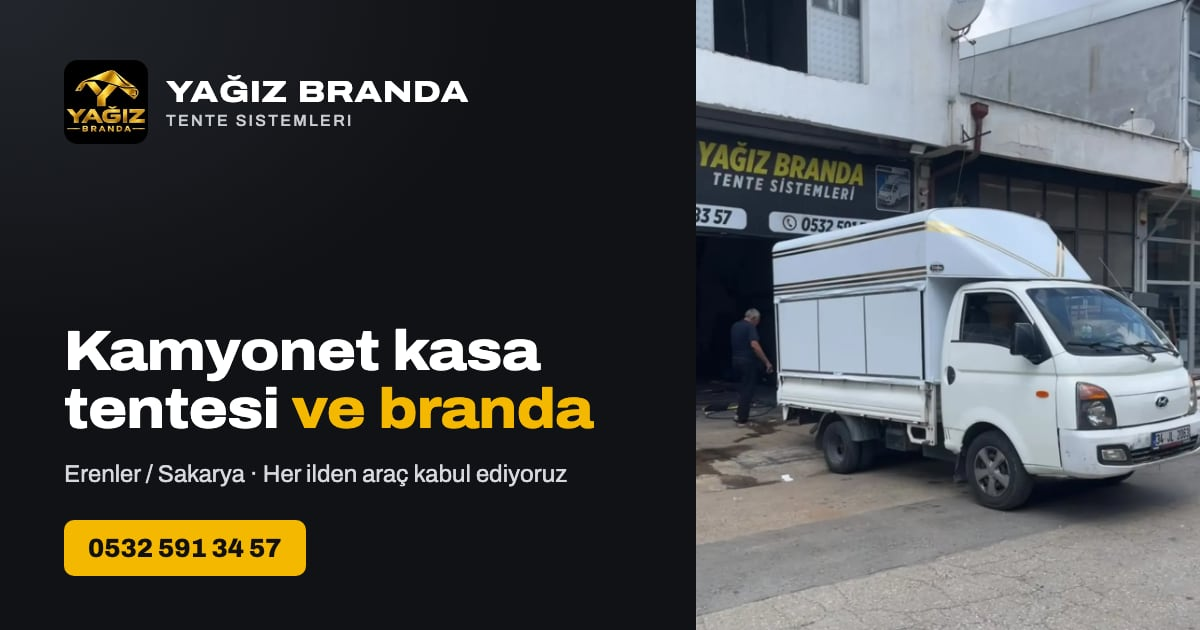
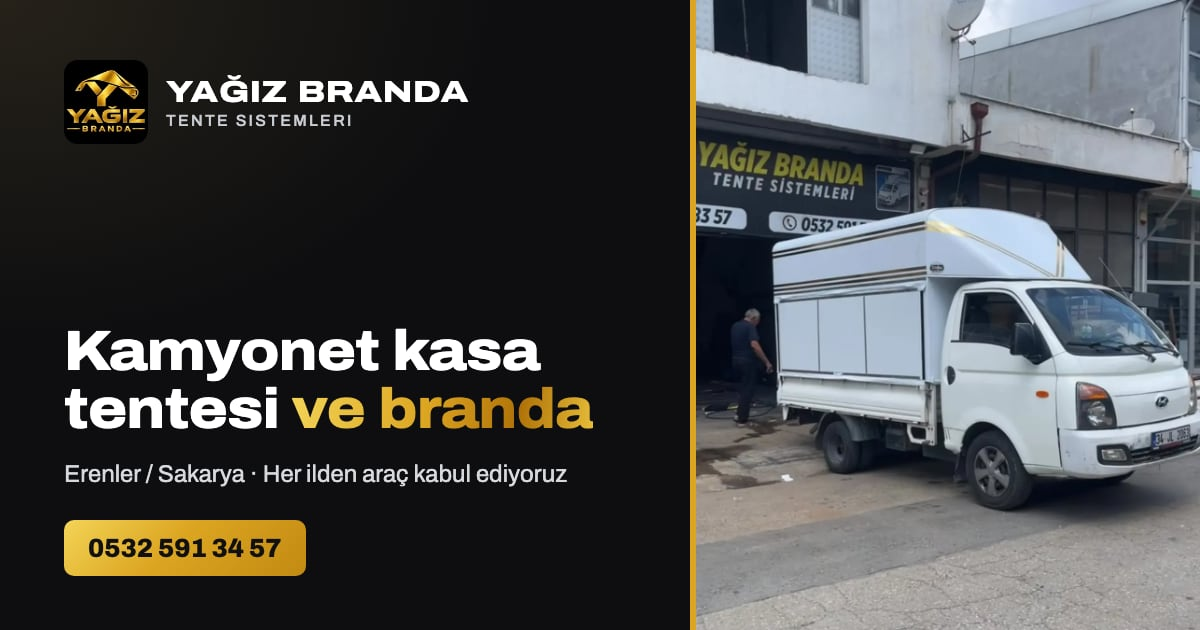
Ana sayfa: logodaki altın renkler, ekip bölümü, güven şeridi; Google kaydı ve IndexNow

Changed region(s): [[0.555, 0.0, 0.5858, 1.0], [0.0308, 0.8143, 0.2775, 0.9349], [0.2467, 0.6032, 0.4933, 0.6937]]

diff --git a/public/site.css b/public/site.css
@@ -1,21 +1,23 @@
-/* Yağız Branda — kurumsal ve sade: koyu antrasit + tabeladaki sarı, bol boşluk, az metin.
+/* Yağız Branda — kurumsal ve sade: logodaki siyah + metalik altın, beyaz; bol boşluk, az metin.
+   Altın tonları logodan ölçüldü (14 Kasım): koyu kehribar #b07208 → #dca521 → parlak #f3d457.
    Yazı tipi: Archivo (OFL), yalnızca sitede kullanılan harfler (Türkçe dahil) ve kalınlıklar (public/yazi/). */
 @font-face { font-family: "Archivo"; font-style: normal; font-display: swap; font-weight: 400 800; font-stretch: 100% 125%; src: url(yazi/archivo-latin.woff2) format("woff2"); unicode-range: U+0020-007E, U+00A0-00FF, U+0131, U+2013-2014, U+2018-2019, U+201C-201D, U+2022, U+2026, U+2192, U+20AC; }
 @font-face { font-family: "Archivo"; font-style: normal; font-display: swap; font-weight: 400 800; font-stretch: 100% 125%; src: url(yazi/archivo-tr.woff2) format("woff2"); unicode-range: U+011E-011F, U+0130, U+015E-015F, U+20BA; }
 
 :root {
-  --koyu: #101215;
-  --koyu-2: #1a1d22;
+  --koyu: #0e0e10;
+  --koyu-2: #18181b;
   --koyu-cizgi: rgba(255, 255, 255, .12);
-  --sari: #f5b800;
-  --sari-acik: #ffc928;
-  --sari-yazi: #8a6500;
+  --altin: #dca521;
+  --altin-acik: #f3d457;
+  --altin-yazi: #8a5a00;
+  --altin-grad: linear-gradient(135deg, #f3d457 0%, #dca521 42%, #b9800f 74%, #e8bf3a 100%);
   --zemin: #ffffff;
-  --gri: #f4f3ef;
-  --metin: #15171b;
-  --soluk: #5a606a;
-  --acik-soluk: #b9bdc5;
-  --cizgi: #e3e1db;
+  --gri: #f6f4ef;
+  --metin: #141416;
+  --soluk: #5c5c63;
+  --acik-soluk: #bdbcc4;
+  --cizgi: #e6e2d8;
   --wp: #25d366;
   --wp-yazi: #05290f;
   --yaricap: 16px;
@@ -30,9 +32,9 @@ h2 { font-size: clamp(1.7rem, 3vw, 2.35rem); }
 h3 { font-size: 1.1rem; font-stretch: 104%; letter-spacing: -.005em; line-height: 1.25; }
 p { margin: 0; }
 svg { width: 1.15em; height: 1.15em; flex: none; fill: none; stroke: currentColor; stroke-width: 2; stroke-linecap: round; stroke-linejoin: round; }
-:focus-visible { outline: 3px solid var(--sari); outline-offset: 3px; border-radius: 6px; }
+:focus-visible { outline: 3px solid var(--altin); outline-offset: 3px; border-radius: 6px; }
 .gizli { position: absolute; width: 1px; height: 1px; overflow: hidden; clip: rect(0 0 0 0); white-space: nowrap; }
-.atla { position: absolute; left: 12px; top: -60px; z-index: 100; background: var(--sari); color: #111; padding: 10px 16px; border-radius: 8px; font-weight: 700; text-decoration: none; }
+.atla { position: absolute; left: 12px; top: -60px; z-index: 100; background: var(--altin); color: #111; padding: 10px 16px; border-radius: 8px; font-weight: 700; text-decoration: none; }
 .atla:focus { top: 12px; }
 .kap { width: min(1180px, 100% - 40px); margin-inline: auto; }
 .kap-dar { width: min(820px, 100% - 40px); }
@@ -43,8 +45,8 @@ svg { width: 1.15em; height: 1.15em; flex: none; fill: none; stroke: currentColo
 .dugme { display: inline-flex; align-items: center; justify-content: center; gap: 9px; padding: 12px 18px; border-radius: 10px; border: 1.5px solid transparent;
   font-weight: 700; font-size: .97rem; line-height: 1.2; text-decoration: none; white-space: nowrap; transition: background-color .15s, border-color .15s, color .15s; }
 .dugme-buyuk { padding: 15px 22px; font-size: 1.02rem; }
-.dugme-sari { background: var(--sari); color: #111; }
-.dugme-sari:hover { background: var(--sari-acik); }
+.dugme-sari { background: var(--altin-grad); color: #111; box-shadow: inset 0 1px 0 rgba(255, 255, 255, .35); }
+.dugme-sari:hover { filter: brightness(1.07); }
 .dugme-wp { background: var(--wp); color: var(--wp-yazi); }
 .dugme-wp:hover { background: #3ee07a; }
 .dugme-cizgi { border-color: var(--metin); color: var(--metin); }
@@ -53,8 +55,8 @@ svg { width: 1.15em; height: 1.15em; flex: none; fill: none; stroke: currentColo
 .koyu .dugme-cizgi:hover { background: #fff; color: var(--koyu); border-color: #fff; }
 
 /* Üst bar */
-.ust { position: sticky; top: 0; z-index: 50; background: rgba(16, 18, 21, .97); color: #fff; border-bottom: 1px solid var(--koyu-cizgi); }
-@supports (backdrop-filter: blur(8px)) { .ust { background: rgba(16, 18, 21, .86); backdrop-filter: blur(12px) saturate(1.4); } }
+.ust { position: sticky; top: 0; z-index: 50; background: rgba(14, 14, 16, .97); color: #fff; border-bottom: 1px solid var(--koyu-cizgi); }
+@supports (backdrop-filter: blur(8px)) { .ust { background: rgba(14, 14, 16, .86); backdrop-filter: blur(12px) saturate(1.4); } }
 .ust-ic { display: flex; align-items: center; gap: 20px; min-height: 70px; }
 .marka { display: inline-flex; align-items: center; gap: 12px; text-decoration: none; margin-right: auto; }
 .marka img { width: 44px; height: 44px; border-radius: 10px; }
@@ -62,7 +64,7 @@ svg { width: 1.15em; height: 1.15em; flex: none; fill: none; stroke: currentColo
 .marka small { display: block; font-size: .68rem; font-weight: 600; letter-spacing: .18em; text-transform: uppercase; color: var(--acik-soluk); margin-top: 3px; }
 .menu { display: flex; align-items: center; gap: 2px; }
 .menu a:not(.dugme) { padding: 10px 12px; border-radius: 8px; color: #e5e7ea; text-decoration: none; font-weight: 600; font-size: .94rem; }
-.menu a:not(.dugme):hover, .menu a[aria-current="page"] { color: var(--sari); }
+.menu a:not(.dugme):hover, .menu a[aria-current="page"] { color: var(--altin); }
 .menu-tel { margin-left: 10px; }
 .menu-ac { display: none; width: 46px; height: 46px; border: 1px solid var(--koyu-cizgi); border-radius: 10px; background: transparent; color: #fff; cursor: pointer; place-content: center; gap: 6px; }
 .menu-ac i { display: block; width: 20px; height: 2px; background: currentColor; border-radius: 2px; transition: transform .2s; }
@@ -71,27 +73,27 @@ svg { width: 1.15em; height: 1.15em; flex: none; fill: none; stroke: currentColo
 
 /* Başlık etiketleri */
 .ust-baslik { display: inline-flex; align-items: center; gap: 10px; font-size: .76rem; font-weight: 700; letter-spacing: .18em; text-transform: uppercase; color: var(--soluk); margin-bottom: 14px; }
-.ust-baslik::before { content: ""; width: 22px; height: 3px; border-radius: 2px; background: var(--sari); }
-.koyu .ust-baslik { color: var(--sari); }
+.ust-baslik::before { content: ""; width: 22px; height: 3px; border-radius: 2px; background: var(--altin); }
+.koyu .ust-baslik { color: var(--altin); }
 
 /* Giriş */
-.giris { padding: clamp(48px, 7vw, 96px) 0; background: radial-gradient(60% 70% at 90% 10%, rgba(245, 184, 0, .12), transparent 62%), linear-gradient(180deg, #14171b 0%, var(--koyu) 100%); }
+.giris { padding: clamp(48px, 7vw, 96px) 0; background: radial-gradient(60% 70% at 90% 10%, rgba(220, 165, 33, .12), transparent 62%), linear-gradient(180deg, #14171b 0%, var(--koyu) 100%); }
 .giris-ic { display: grid; grid-template-columns: 1.15fr .85fr; gap: clamp(32px, 6vw, 88px); align-items: center; }
 .giris h1 { font-size: clamp(2.4rem, 5.4vw, 4.1rem); line-height: 1.02; }
 .giris-p { margin: 22px 0 32px; max-width: 30em; color: var(--acik-soluk); font-size: 1.12rem; }
 .olgular { list-style: none; margin: 34px 0 0; padding: 0; display: flex; flex-wrap: wrap; gap: 10px 26px; color: #dfe1e5; font-size: .93rem; font-weight: 600; }
 .olgular li { display: inline-flex; align-items: center; gap: 8px; }
-.olgular svg { color: var(--sari); stroke-width: 2.6; }
+.olgular svg { color: var(--altin); stroke-width: 2.6; }
 .giris-foto { position: relative; margin: 0; justify-self: end; width: min(420px, 100%); }
 .giris-foto img { width: 100%; aspect-ratio: 4 / 5; object-fit: cover; border-radius: 20px; box-shadow: 0 30px 60px rgba(0, 0, 0, .45); }
-.giris-foto figcaption { position: absolute; left: 14px; bottom: 14px; display: inline-flex; align-items: center; gap: 7px; background: rgba(16, 18, 21, .82); color: #fff; font-size: .82rem; font-weight: 600; padding: 8px 13px; border-radius: 999px; }
-.giris-foto figcaption svg { color: var(--sari); width: 1em; height: 1em; }
+.giris-foto figcaption { position: absolute; left: 14px; bottom: 14px; display: inline-flex; align-items: center; gap: 7px; background: rgba(14, 14, 16, .82); color: #fff; font-size: .82rem; font-weight: 600; padding: 8px 13px; border-radius: 999px; }
+.giris-foto figcaption svg { color: var(--altin); width: 1em; height: 1em; }
 .giris-kisa { padding: clamp(40px, 5vw, 72px) 0; }
 .giris-kisa h1 { font-size: clamp(2.2rem, 4.6vw, 3.5rem); }
 .giris-kisa .giris-foto { width: min(380px, 100%); }
 .kirinti { display: flex; flex-wrap: wrap; gap: 8px; font-size: .86rem; color: var(--acik-soluk); margin-bottom: 18px; }
 .kirinti a { color: var(--acik-soluk); text-decoration: none; }
-.kirinti a:hover { color: var(--sari); }
+.kirinti a:hover { color: var(--altin); }
 .kirinti [aria-current] { color: #fff; }
 .bulunamadi { min-height: 56vh; display: grid; align-items: center; }
 
@@ -100,8 +102,8 @@ svg { width: 1.15em; height: 1.15em; flex: none; fill: none; stroke: currentColo
 .bolum-gri { background: var(--gri); }
 .bolum-bas { margin-bottom: clamp(28px, 4vw, 44px); }
 .bolum-bas-yan { display: flex; align-items: end; justify-content: space-between; gap: 16px 24px; flex-wrap: wrap; }
-.yazi-bag { display: inline-flex; align-items: center; gap: 8px; font-weight: 700; font-size: .95rem; text-decoration: none; color: var(--metin); border-bottom: 2px solid var(--sari); padding-bottom: 3px; }
-.yazi-bag:hover { color: var(--sari-yazi); }
+.yazi-bag { display: inline-flex; align-items: center; gap: 8px; font-weight: 700; font-size: .95rem; text-decoration: none; color: var(--metin); border-bottom: 2px solid var(--altin); padding-bottom: 3px; }
+.yazi-bag:hover { color: var(--altin-yazi); }
 
 /* Hizmet karoları: fotoğraf üstünde başlık */
 .karolar { display: grid; grid-template-columns: repeat(4, 1fr); gap: 18px; }
@@ -109,37 +111,37 @@ svg { width: 1.15em; height: 1.15em; flex: none; fill: none; stroke: currentColo
 .karo { position: relative; display: block; border-radius: var(--yaricap); overflow: hidden; color: #fff; text-decoration: none; background: var(--koyu); isolation: isolate; }
 .karo img { width: 100%; aspect-ratio: 4 / 5; object-fit: cover; transition: transform .5s; }
 .karolar-3 .karo img { aspect-ratio: 4 / 3; }
-.karo::after { content: ""; position: absolute; inset: 0; background: linear-gradient(180deg, rgba(16, 18, 21, 0) 40%, rgba(16, 18, 21, .88) 100%); z-index: 0; }
+.karo::after { content: ""; position: absolute; inset: 0; background: linear-gradient(180deg, rgba(14, 14, 16, 0) 40%, rgba(14, 14, 16, .88) 100%); z-index: 0; }
 .karo-yazi { position: absolute; left: 0; right: 0; bottom: 0; z-index: 1; padding: 20px 22px; }
 .karo-yazi p { margin-top: 6px; font-size: .9rem; color: #d7dadf; }
-.karo > svg { position: absolute; z-index: 1; top: 16px; right: 16px; width: 40px; height: 40px; padding: 10px; border-radius: 50%; background: var(--sari); color: #111; stroke-width: 2.4; transition: transform .25s; }
+.karo > svg { position: absolute; z-index: 1; top: 16px; right: 16px; width: 40px; height: 40px; padding: 10px; border-radius: 50%; background: var(--altin); color: #111; stroke-width: 2.4; transition: transform .25s; }
 .karo:hover img { transform: scale(1.04); }
 .karo:hover > svg { transform: rotate(-45deg); }
 
 /* Türkiye */
-.turkiye { padding: clamp(64px, 8vw, 104px) 0; background: radial-gradient(50% 80% at 100% 50%, rgba(245, 184, 0, .08), transparent 70%), var(--koyu); }
+.turkiye { padding: clamp(64px, 8vw, 104px) 0; background: radial-gradient(50% 80% at 100% 50%, rgba(220, 165, 33, .08), transparent 70%), var(--koyu); }
 .turkiye-ic { display: grid; grid-template-columns: .8fr 1.2fr; gap: clamp(32px, 5vw, 72px); align-items: center; }
 .turkiye-yazi > p:not(.ust-baslik) { margin-top: 16px; color: var(--acik-soluk); font-size: 1.06rem; max-width: 28em; }
 .adimlar { list-style: none; margin: 30px 0 0; padding: 0; display: grid; gap: 12px; counter-reset: adim; }
 .adimlar li { counter-increment: adim; display: flex; align-items: center; gap: 14px; font-weight: 700; }
-.adimlar li::before { content: counter(adim); display: grid; place-items: center; width: 34px; height: 34px; flex: none; border-radius: 50%; border: 1.5px solid var(--sari); color: var(--sari); font-size: .9rem; font-stretch: 112%; }
+.adimlar li::before { content: counter(adim); display: grid; place-items: center; width: 34px; height: 34px; flex: none; border-radius: 50%; border: 1.5px solid var(--altin); color: var(--altin); font-size: .9rem; font-stretch: 112%; }
 .harita { margin: 0; }
 .harita svg { width: 100%; height: auto; overflow: visible; }
 .harita .ulke { fill: #1d2127; stroke: #363b45; stroke-width: 1.4; }
-.harita .yay { fill: none; stroke: var(--sari); stroke-width: 2.2; stroke-linecap: round; opacity: .7; }
+.harita .yay { fill: none; stroke: var(--altin); stroke-width: 2.2; stroke-linecap: round; opacity: .7; }
 .harita .il { fill: #fff; stroke: var(--koyu); stroke-width: 2.5; }
-.harita .atolye { fill: var(--sari); stroke: var(--koyu); stroke-width: 3; }
-.harita .atolye-hale { fill: rgba(245, 184, 0, .22); transform-origin: center; transform-box: fill-box; animation: hale 2.4s ease-out infinite; }
+.harita .atolye { fill: var(--altin); stroke: var(--koyu); stroke-width: 3; }
+.harita .atolye-hale { fill: rgba(220, 165, 33, .22); transform-origin: center; transform-box: fill-box; animation: hale 2.4s ease-out infinite; }
 @keyframes hale { from { transform: scale(.5); opacity: 1; } to { transform: scale(1.6); opacity: 0; } }
 .iller { list-style: none; margin: 22px 0 0; padding: 0; display: flex; flex-wrap: wrap; gap: 8px; }
 .iller li { padding: 7px 14px; border: 1px solid rgba(255, 255, 255, .18); border-radius: 999px; font-weight: 600; font-size: .9rem; color: #e6e8eb; }
-.iller li.merkez { background: var(--sari); border-color: var(--sari); color: #111; }
+.iller li.merkez { background: var(--altin-grad); border-color: var(--altin); color: #111; }
 
 /* Galeri */
 .galeri { display: grid; grid-template-columns: repeat(4, 1fr); gap: 14px; }
 .galeri figure { position: relative; margin: 0; border-radius: 14px; overflow: hidden; background: #ddd; }
 .galeri img { width: 100%; aspect-ratio: 4 / 5; object-fit: cover; }
-.galeri figcaption { position: absolute; left: 10px; bottom: 10px; padding: 5px 11px; border-radius: 999px; background: rgba(16, 18, 21, .78); color: #fff; font-size: .8rem; font-weight: 600; }
+.galeri figcaption { position: absolute; left: 10px; bottom: 10px; padding: 5px 11px; border-radius: 999px; background: rgba(14, 14, 16, .78); color: #fff; font-size: .8rem; font-weight: 600; }
 
 /* Sık sorulanlar */
 .sss details { border-bottom: 1px solid var(--cizgi); }
@@ -148,7 +150,7 @@ svg { width: 1.15em; height: 1.15em; flex: none; fill: none; stroke: currentColo
 .sss summary::-webkit-details-marker { display: none; }
 .sss summary::after { content: "+"; flex: none; display: grid; place-items: center; width: 30px; height: 30px; border-radius: 50%; background: var(--gri); font-size: 1.3rem; font-weight: 500; line-height: 1; }
 .bolum-gri .sss summary::after { background: #fff; }
-.sss details[open] summary::after { content: "−"; background: var(--sari); }
+.sss details[open] summary::after { content: "−"; background: var(--altin); }
 .sss p { padding: 0 44px 22px 2px; color: var(--soluk); }
 
 /* İletişim */
@@ -159,8 +161,8 @@ svg { width: 1.15em; height: 1.15em; flex: none; fill: none; stroke: currentColo
 .bilgi li > svg { width: 42px; height: 42px; padding: 10px; border-radius: 12px; background: #fff; border: 1px solid var(--cizgi); }
 .bilgi b { display: block; font-size: .76rem; letter-spacing: .1em; text-transform: uppercase; color: var(--soluk); margin-bottom: 2px; }
 .bilgi a { font-weight: 700; text-decoration: none; }
-.bilgi a:hover { color: var(--sari-yazi); }
-.iletisim-kart { padding: clamp(28px, 4vw, 44px); border-radius: 22px; background: radial-gradient(90% 90% at 100% 0%, rgba(245, 184, 0, .16), transparent 60%), var(--koyu); }
+.bilgi a:hover { color: var(--altin-yazi); }
+.iletisim-kart { padding: clamp(28px, 4vw, 44px); border-radius: 22px; background: radial-gradient(90% 90% at 100% 0%, rgba(220, 165, 33, .16), transparent 60%), var(--koyu); }
 .iletisim-kart h3 { font-size: 1.45rem; }
 .iletisim-kart > p:not(.ust-baslik) { margin: 10px 0 26px; color: var(--acik-soluk); }
 
@@ -168,7 +170,7 @@ svg { width: 1.15em; height: 1.15em; flex: none; fill: none; stroke: currentColo
 .maddeler { list-style: none; margin: 0; padding: 0; display: grid; grid-template-columns: repeat(3, 1fr); gap: 28px; }
 .maddeler-4 { grid-template-columns: repeat(4, 1fr); }
 .maddeler li { padding-top: 20px; border-top: 2px solid var(--metin); }
-.maddeler li > svg { width: 34px; height: 34px; padding: 7px; border-radius: 50%; background: var(--sari); color: #111; stroke-width: 2.6; margin-bottom: 16px; }
+.maddeler li > svg { width: 34px; height: 34px; padding: 7px; border-radius: 50%; background: var(--altin); color: #111; stroke-width: 2.6; margin-bottom: 16px; }
 .maddeler p { margin-top: 6px; color: var(--soluk); }
 .araclar { margin-top: 48px; }
 .araclar h3 { font-size: .8rem; letter-spacing: .14em; text-transform: uppercase; color: var(--soluk); font-stretch: 100%; }
@@ -177,7 +179,7 @@ svg { width: 1.15em; height: 1.15em; flex: none; fill: none; stroke: currentColo
 .araclar li:last-child { background: none; border: 1px dashed #c9c6be; color: var(--soluk); font-weight: 500; }
 
 /* Çağrı bandı */
-.cagri { padding: clamp(48px, 6vw, 72px) 0; background: radial-gradient(70% 120% at 100% 0%, rgba(245, 184, 0, .15), transparent 60%), var(--koyu); }
+.cagri { padding: clamp(48px, 6vw, 72px) 0; background: radial-gradient(70% 120% at 100% 0%, rgba(220, 165, 33, .15), transparent 60%), var(--koyu); }
 .cagri-ic { display: flex; align-items: center; justify-content: space-between; gap: 28px; flex-wrap: wrap; }
 .cagri h2 { font-size: clamp(1.5rem, 2.6vw, 2rem); }
 .cagri p { margin-top: 10px; color: var(--acik-soluk); }
@@ -189,16 +191,72 @@ svg { width: 1.15em; height: 1.15em; flex: none; fill: none; stroke: currentColo
 .alt-liste { display: flex; flex-direction: column; gap: 10px; }
 .alt-liste h2 { font-size: .76rem; font-stretch: 100%; letter-spacing: .18em; text-transform: uppercase; color: #8b9099; margin-bottom: 6px; }
 .alt-liste a, .alt-liste p { display: flex; gap: 9px; align-items: flex-start; color: #d3d6db; text-decoration: none; line-height: 1.45; }
-.alt-liste a:hover { color: var(--sari); }
-.alt-liste svg { color: var(--sari); margin-top: 2px; }
+.alt-liste a:hover { color: var(--altin); }
+.alt-liste svg { color: var(--altin); margin-top: 2px; }
 .alt-alt { display: flex; justify-content: space-between; gap: 16px; flex-wrap: wrap; padding: 22px 0 26px; border-top: 1px solid rgba(255, 255, 255, .08); color: #8b9099; font-size: .86rem; }
 .alt-alt a { color: #b7bbc2; text-decoration: none; }
-.alt-alt a:hover { color: var(--sari); }
+.alt-alt a:hover { color: var(--altin); }
+
+/* Altın yazı (logodaki metalik geçiş) */
+.altin-yazi { background: var(--altin-grad); -webkit-background-clip: text; background-clip: text; color: transparent; }
+
+/* Üst şerit (yalnızca geniş ekranda) */
+.serit { background: #000; color: #c9c8cf; font-size: .82rem; border-bottom: 1px solid rgba(220, 165, 33, .25); }
+.serit-ic { display: flex; gap: 28px; align-items: center; min-height: 38px; }
+.serit-ic a, .serit-ic span { display: inline-flex; align-items: center; gap: 7px; text-decoration: none; }
+.serit-ic a:hover { color: var(--altin-acik); }
+.serit-ic svg { color: var(--altin); width: 1em; height: 1em; }
+.serit-ic a:last-child { margin-left: auto; }
+
+/* Ana sayfa girişi: tentelerdeki kafes deseninden altın ızgara */
+.giris { position: relative; overflow: hidden; isolation: isolate; }
+.giris-ana { padding: clamp(48px, 7vw, 104px) 0 clamp(88px, 10vw, 140px);
+  background: radial-gradient(55% 70% at 88% 18%, rgba(220, 165, 33, .16), transparent 62%), linear-gradient(180deg, #141312 0%, var(--koyu) 100%); }
+.giris::before { content: ""; position: absolute; inset: 0; z-index: -1; pointer-events: none;
+  background-image: linear-gradient(rgba(220, 165, 33, .13) 1.5px, transparent 1.5px), linear-gradient(90deg, rgba(220, 165, 33, .13) 1.5px, transparent 1.5px);
+  background-size: 46px 46px; -webkit-mask-image: radial-gradient(60% 75% at 82% 35%, #000 0%, transparent 72%); mask-image: radial-gradient(60% 75% at 82% 35%, #000 0%, transparent 72%); }
+.giris-ana h1 { font-size: clamp(2.5rem, 5.8vw, 4.5rem); }
+.giris-gorsel { position: relative; justify-self: end; width: min(430px, 100%); }
+.giris-ana .giris-foto { width: 100%; }
+.giris-ana .giris-foto::before { content: ""; position: absolute; inset: 22px -22px -22px 22px; border: 2px solid var(--altin); border-radius: 24px; z-index: -1; opacity: .75; }
+.giris-kart { position: absolute; left: -28px; bottom: 34px; display: flex; align-items: center; gap: 12px; padding: 12px 18px 12px 12px; border-radius: 16px;
+  background: rgba(14, 14, 16, .9); border: 1px solid rgba(220, 165, 33, .35); box-shadow: 0 18px 40px rgba(0, 0, 0, .45); }
+.giris-kart img { width: 48px; height: 48px; border-radius: 10px; }
+.giris-kart b { display: block; font-size: 1rem; }
+.giris-kart small { display: block; color: var(--acik-soluk); font-size: .84rem; }
+
+/* Güven şeridi: girişin altına biner */
+.guven { position: relative; z-index: 2; margin-top: calc(-1 * clamp(44px, 5vw, 64px)); }
+.guven-ic { list-style: none; margin-block: 0; padding: 0; display: grid; grid-template-columns: repeat(4, 1fr); background: #fff; border-radius: 20px;
+  box-shadow: 0 24px 60px rgba(14, 14, 16, .14), 0 2px 0 var(--altin) inset; overflow: hidden; }
+.guven li { display: flex; align-items: center; gap: 14px; padding: 24px 24px; }
+.guven li + li { border-left: 1px solid var(--cizgi); }
+.guven li > svg { width: 46px; height: 46px; padding: 11px; border-radius: 50%; background: var(--koyu); color: var(--altin); stroke-width: 1.8; }
+.guven b { display: block; font-size: 1rem; line-height: 1.25; }
+.guven span { color: var(--soluk); font-size: .9rem; line-height: 1.35; }
+
+/* Ekibimiz */
+.ekip-ic { display: grid; grid-template-columns: 1.05fr .95fr; gap: clamp(32px, 6vw, 80px); align-items: center; }
+.ekip-foto { position: relative; margin: 0; }
+.ekip-foto img { width: 100%; aspect-ratio: 4 / 3; object-fit: cover; border-radius: 20px; }
+.ekip-foto::after { content: ""; position: absolute; left: -14px; top: -14px; width: 38%; height: 46%; border-left: 3px solid var(--altin); border-top: 3px solid var(--altin); border-radius: 22px 0 0 0; pointer-events: none; }
+.ekip-foto figcaption { position: absolute; left: 14px; bottom: 14px; padding: 7px 13px; border-radius: 999px; background: rgba(14, 14, 16, .82); color: #fff; font-size: .82rem; font-weight: 600; }
+.ekip-yazi > p:not(.ust-baslik) { margin-top: 18px; color: var(--soluk); font-size: 1.06rem; max-width: 32em; }
+.degerler { list-style: none; margin: 30px 0 0; padding: 0; display: grid; gap: 0; counter-reset: deger; }
+.degerler li { counter-increment: deger; display: grid; grid-template-columns: 52px 1fr; column-gap: 8px; padding: 16px 0; border-top: 1px solid var(--cizgi); }
+.degerler li::before { content: "0" counter(deger); grid-row: span 2; font-weight: 800; font-stretch: 120%; font-size: 1.35rem; line-height: 1.1;
+  background: var(--altin-grad); -webkit-background-clip: text; background-clip: text; color: transparent; }
+.degerler b { font-size: 1.05rem; }
+.degerler span { color: var(--soluk); }
 
 /* Telefonda altta sabit düğmeler */
 .alt-cubuk { display: none; }
 
 @media (max-width: 1099px) {
+  .serit-ic span { display: none; }
+  .guven-ic { grid-template-columns: 1fr 1fr; }
+  .guven li:nth-child(3) { border-left: 0; }
+  .guven li:nth-child(n + 3) { border-top: 1px solid var(--cizgi); }
   .karolar { grid-template-columns: repeat(2, 1fr); }
   .galeri { grid-template-columns: repeat(3, 1fr); }
   .maddeler-4 { grid-template-columns: repeat(2, 1fr); }
@@ -210,15 +268,18 @@ svg { width: 1.15em; height: 1.15em; flex: none; fill: none; stroke: currentColo
   .menu.acik { display: flex; }
   .menu a:not(.dugme) { padding: 14px 4px; border-bottom: 1px solid var(--koyu-cizgi); border-radius: 0; font-size: 1.02rem; }
   .menu-tel { margin: 16px 0 0; padding: 14px; }
-  .giris-ic, .turkiye-ic, .iletisim { grid-template-columns: 1fr; }
-  .giris-foto { justify-self: start; }
+  .serit { display: none; }
+  .giris-ic, .turkiye-ic, .iletisim, .ekip-ic { grid-template-columns: 1fr; }
+  .giris-foto, .giris-gorsel { justify-self: start; }
+  .giris-gorsel { width: min(430px, calc(100% - 22px)); }
+  .giris-kart { left: 14px; bottom: 14px; }
   .karolar-3 { grid-template-columns: repeat(3, 1fr); }
   .maddeler { grid-template-columns: 1fr 1fr; }
 }
 @media (max-width: 759px) {
   body { padding-bottom: 76px; }
   .alt-cubuk { position: fixed; z-index: 60; left: 0; right: 0; bottom: 0; display: grid; grid-template-columns: 1fr 1fr; gap: 8px;
-    padding: 10px 12px calc(10px + env(safe-area-inset-bottom)); background: rgba(16, 18, 21, .96); border-top: 1px solid var(--koyu-cizgi); }
+    padding: 10px 12px calc(10px + env(safe-area-inset-bottom)); background: rgba(14, 14, 16, .96); border-top: 1px solid var(--koyu-cizgi); }
   .alt-cubuk .dugme { padding: 13px 10px; }
   .karolar, .karolar-3 { grid-template-columns: 1fr 1fr; gap: 10px; }
   .karolar-3 .karo:last-child { grid-column: span 2; }
@@ -242,6 +303,15 @@ svg { width: 1.15em; height: 1.15em; flex: none; fill: none; stroke: currentColo
   .marka b { font-size: .95rem; }
   .giris-foto { width: 100%; }
   .giris-foto img { aspect-ratio: 4 / 3.6; }
+  .giris-ana .giris-foto::before { inset: 14px -14px -14px 14px; }
+  .giris-kart { padding: 9px 14px 9px 9px; gap: 10px; }
+  .giris-kart img { width: 40px; height: 40px; }
+  .guven-ic { border-radius: 16px; }
+  .guven li { flex-direction: column; align-items: flex-start; gap: 10px; padding: 18px 16px; }
+  .guven li > svg { width: 40px; height: 40px; padding: 9px; }
+  .guven b { font-size: .95rem; }
+  .guven span { font-size: .84rem; }
+  .ekip-foto::after { left: -8px; top: -8px; }
   .olgular { gap: 8px 18px; font-size: .88rem; }
   .sss p { padding-right: 4px; }
 }

diff --git a/README.md b/README.md
@@ -11,7 +11,7 @@
 - **Stil ve betik:** `public/site.css`, `public/site.js` (telefonda menü). Yazı tipi Archivo (OFL, `public/yazi/`, Türkçe harfler dahil).
   Derleme stil ve betik bağlantısına içerik özeti ekler (`?v=`), değişiklik hemen görünür.
 - **Görseller:** `public/img/` elle değiştirilmez; `npm run gorseller` üretir (kaynak `kaynak/instagram/`, depoya girmez):
-  iş fotoğrafları 4:5 WebP (360–1080 px), logo, sekme simgeleri, her sayfanın paylaşım görseli (`img/og/`, 1200×630).
+  iş fotoğrafları 4:5 WebP (360–1080 px), ekip fotoğrafı 4:3, logo, sekme simgeleri, her sayfanın paylaşım görseli (`img/og/`, 1200×630).
 
 Yerelde açmak (GitHub'daki `/yagizbranda/` yolu ile aynı):
 
